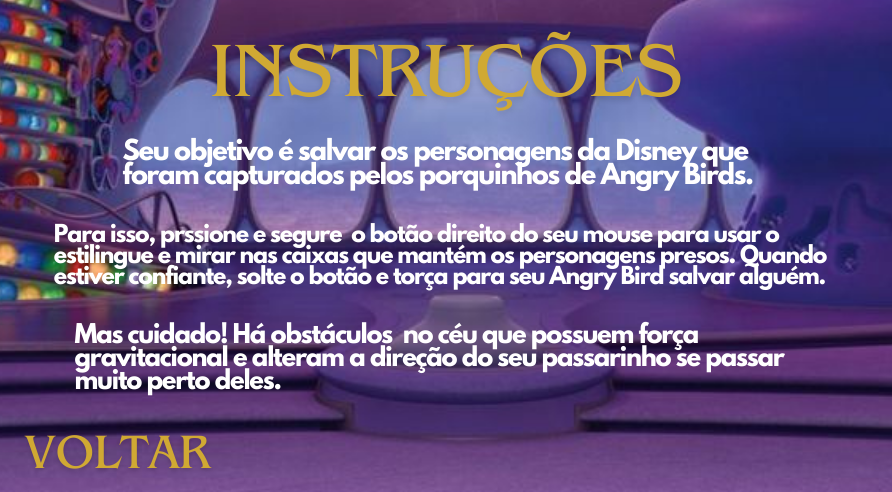
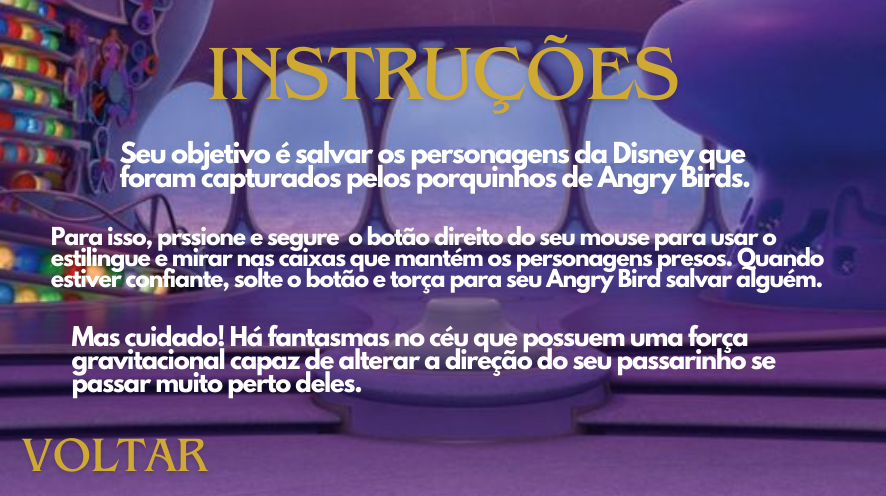
adicionando personagens e fantasma

diff --git a/jogo_real.py b/jogo_real.py
@@ -1,5 +1,6 @@
 import pygame
 from class_personagem import *
+from class_fantasma import *
 
 class Game:
     def __init__(self, width=900, height=500):
@@ -16,7 +17,20 @@ class Game:
             'tela_inicial': pygame.transform.scale(pygame.image.load('assets/menu.png'), (width, height)), 
             'tela_jogo': pygame.transform.scale(pygame.image.load('assets/jogo_inicio.png'), (width, height)),
             'tela_instrucoes': pygame.transform.scale(pygame.image.load('assets/instrucoes.png'), (width, height)),
-            'angry_birds_amarelo': pygame.transform.scale(pygame.image.load('assets/amarelo_angry.png'), (55, 77))
+            'angry_birds_amarelo': pygame.transform.scale(pygame.image.load('assets/amarelo_angry.png'), (55, 77)),
+            'angry_birds_vermelho': pygame.transform.scale(pygame.image.load('assets/vermelho_angry.png'), (55, 77)),
+            'angry_birds_azul': pygame.transform.scale(pygame.image.load('assets/azul_angry.png'), (55, 77)),
+            'angry_birds_rosa': pygame.transform.scale(pygame.image.load('assets/rosa_angry.png'), (55, 77)),
+            'angry_birds_preto': pygame.transform.scale(pygame.image.load('assets/preto_angry.png'), (55, 77)),
+            'angry_birds_branco': pygame.transform.scale(pygame.image.load('assets/branco_angry.png'), (55, 77)),
+            'boo': pygame.transform.scale(pygame.image.load('assets/boo.png'), (55, 77)),
+            'olaf': pygame.transform.scale(pygame.image.load('assets/olaf.png'), (55, 77)),
+            'moana': pygame.transform.scale(pygame.image.load('assets/moana.png'), (55, 77)),
+            'merida': pygame.transform.scale(pygame.image.load('assets/merida.png'), (55, 77)),
+            'pooh': pygame.transform.scale(pygame.image.load('assets/pooh.png'), (55, 77)),
+            'stitch': pygame.transform.scale(pygame.image.load('assets/stitch.png'), (55, 77)),
+            'caixa': pygame.transform.scale(pygame.image.load('assets/caixa angry birds.png'), (55, 77)),
+            'fantasma': pygame.transform.scale(pygame.image.load('assets/fantasma.png'), (55, 77)),
         }
                 
         posicao_inicial = (width // 2, height // 2)  # Posição inicial do personagem no centro da tela
